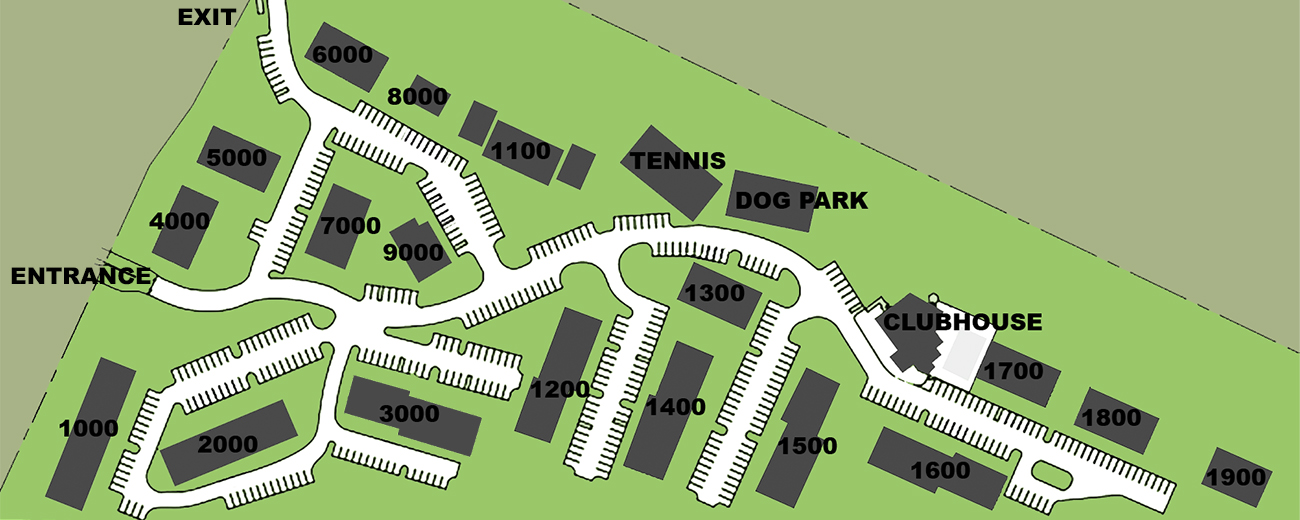
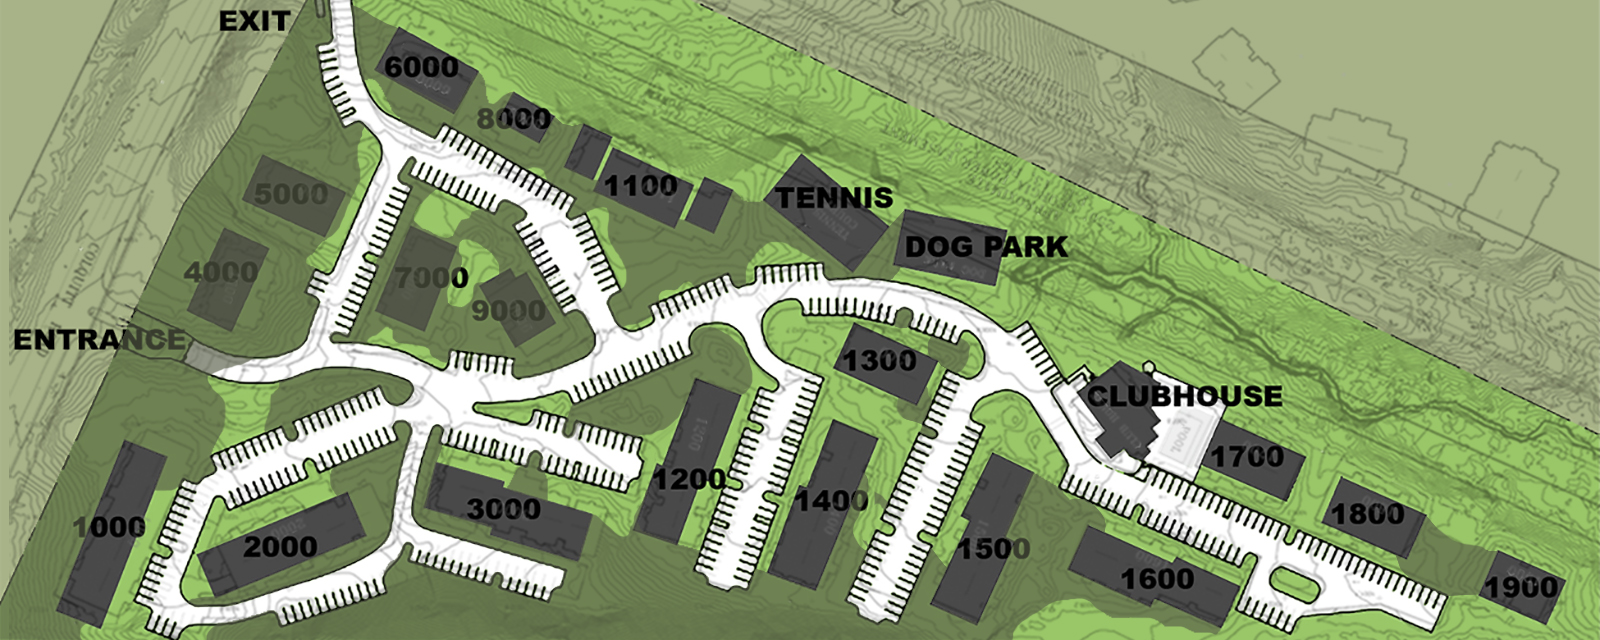
Added Show grass and shade functionality

diff --git a/scripts/layout.js b/scripts/layout.js
@@ -1,99 +1,44 @@
-//Sets and resets variables when window is resized and scrolled
-function setVars() {
-    //Window Scroll top location
-     windowTop = $(window).scrollTop();
-
-     //Window width
-     windowWidth = $(window).width();
-
-     //Height of the img header in pixels
-     windowRatio = (windowWidth / 3.25) + 9;
-
-     //Height of the img header plus offset adjustment for spacing discrepancy in the nav bar
-     windowRatioPlus = (windowWidth / 3.25) + 15;
-
-     //Height of the small img header 
-     windowSmallRatio = (windowWidth / 3.25);
-
-     //Location of the top of the nav bar relative to the img header
-     navMargin = windowWidth / 10.5; 
-
-     //Neg value of the above
-     negMargin = navMargin * -1;
-
-
-     //Img header minus height of the nav bar location
-     numToNeg = ((windowRatio * -1) - navMargin) + 6;
-     numToNegSmall = (windowSmallRatio * -1) - 53;
-     winSmallNeg = ((windowSmallRatio * -1) + navMargin) + 20;
-}
-setVars(); 
-
-function adjustNav() { 
-    if ((windowWidth <= 550) && (windowTop <= windowRatio)) {
-        $('#app').css({"margin-top" : "20px"});
-    }
-}
-
-//The background imagerfader
-function imageSlide() {
-    let slides = [];
-    //Make sure that the IMG SRC height is set to headheight
-    //$('#img-header').css("height" : headHeight);
-    $('.header-container').css({"height" : headHeight});
-    //Grab all the img elements with the id of image-loader
-    slides = $('#image-loader img');
-    //Get the number of elements pulled and save as variable
-    var slideCount = slides.length; 
-    //Create an empty array container
-    var slideSrc = []; 
-    
-} 
-
-function clearBoxes(){
-  const boxes = document.querySelectorAll('.task-point'); 
-    boxes.forEach(box => {
-      box.remove();
-    }); 
-} 
 
 $(document).ready(function(e) { 
 
-    let url = 'https://beautify-stonepark-f8af732df93d.herokuapp.com/'
-    let homeUrl = url
-    let newUrl 
+  let url = 'https://beautify-stonepark-f8af732df93d.herokuapp.com/'
+  let homeUrl = url
+  let newUrl 
 
-    let id = 0 
-    let historyId = 0
-    let historyArr = []
-    let projectArr = []  
+  let id = 0 
+  let historyId = 0
+  let historyArr = []
+  let projectArr = []  
 
-    let taskPoint = []
-    let percentWidth
-    let percentHeight
-    let screenLocked = false   
+  let taskPoint = []
+  let percentWidth
+  let percentHeight
+  let screenLocked = false   
 
-    const today = new Date();
-    let yyyy = today.getFullYear();
-    let mm = today.getMonth() + 1; // Months start at 0!
-    let dd = today.getDate();
+  let grassChecked = false
+  let shadeChecked = false
 
-    if (dd < 10) dd = '0' + dd;
-    if (mm < 10) mm = '0' + mm;
+  const today = new Date();
+  let yyyy = today.getFullYear();
+  let mm = today.getMonth() + 1; // Months start at 0!
+  let dd = today.getDate();
 
-    let formattedToday = dd + '/' + mm + '/' + yyyy; 
-    let time = today.toLocaleString('en-US', {hour: 'numeric', minute: 'numeric', hour12: true})
+  if (dd < 10) dd = '0' + dd;
+  if (mm < 10) mm = '0' + mm;
 
+  let formattedToday = dd + '/' + mm + '/' + yyyy; 
+  let time = today.toLocaleString('en-US', {hour: 'numeric', minute: 'numeric', hour12: true}) 
 
-    setInterval(()=>{
-      $.getJSON(url + "json", (result)=>{   
-        console.log("++++++++++++++++++++")
-        console.log(formattedToday + " Time: " + time )
-        console.log(result) 
-      })  
-    }, 3600000) 
-    //Sept 7, 2023 : post
-    
+  //printing out json
+  setInterval(()=>{
+    $.getJSON(url + "json", (result)=>{   
+      console.log("++++++++++++++++++++")
+      console.log(formattedToday + " Time: " + time )
+      console.log(result) 
+    })  
+  }, 3600000) 
+
+  //Sept 7, 2023 : post 
  
   setTimeout(()=>{
     
@@ -101,9 +46,7 @@ $(document).ready(function(e) {
     let calibrationY = 8
 
     let winWidth = $('#img-header').width()
-    let winHeight = $('#img-header').height() 
-
-    
+    let winHeight = $('#img-header').height()   
 
     if (window.sessionStorage.getItem("pageLoaded") == null){
           window.sessionStorage.setItem("pageLoaded", true)
@@ -199,23 +142,64 @@ $(document).ready(function(e) {
 
     })
 
-    $(document).on('click', 'button#cancel', ()=>{
-      alert
+    $(document).on('click', 'button#cancel', ()=>{ 
 
-      let thisEl = id+1
-      let thisStr = thisEl.toString()
-      
-      $('#overlaycontainer2').css('width', '500px')
-      $('#overlay-form').empty()
-      $('#overlaycontainer2').css('visibility', 'hidden' ); 
-      
-      $('#overlaycontainer').css('width', '85%')
-      $('#overlay-app').empty()
-      $('#overlaycontainer').css('visibility', 'hidden' );
-      document.getElementById(thisStr).remove()
-      screenLocked = false
-      window.location.replace(url + '#/');  
+        let thisEl = id+1
+        let thisStr = thisEl.toString()
+        
+        $('#overlaycontainer2').css('width', '500px')
+        $('#overlay-form').empty()
+        $('#overlaycontainer2').css('visibility', 'hidden' ); 
+        
+        $('#overlaycontainer').css('width', '85%')
+        $('#overlay-app').empty()
+        $('#overlaycontainer').css('visibility', 'hidden' );
+        document.getElementById(thisStr).remove()
+        screenLocked = false
+        window.location.replace(url + '#/');  
+
     }) 
+
+    $(document).on('click', '#grass', (e)=>{
+
+        grassChecked = !grassChecked
+        $('#grass').prop('checked', grassChecked)
+        
+        if(grassChecked == true && shadeChecked == false){
+          
+          $('#img-header').attr('src', 'images/Leeches-Header-3-Large.jpg') 
+        }
+        else if(grassChecked == true && shadeChecked == true){
+          $('#img-header').attr('src', 'images/Leeches-Header-4-Large.jpg') 
+        } 
+        else if(grassChecked == false && shadeChecked == true){
+          $('#img-header').attr('src', 'images/Leeches-Header-2-Large.jpg')  
+        }
+        else{
+          $('#img-header').attr('src', 'images/Leeches-Header-5-Large.jpg')  
+        }
+
+    })
+
+    $(document).on('click', '#shade', (e)=>{
+
+      shadeChecked = !shadeChecked
+      $('#shade').prop('checked', shadeChecked)
+      
+      if(grassChecked == true && shadeChecked == false){ 
+        $('#img-header').attr('src', 'images/Leeches-Header-3-Large.jpg') 
+      }
+      else if(grassChecked == true && shadeChecked == true){
+        $('#img-header').attr('src', 'images/Leeches-Header-4-Large.jpg') 
+      } 
+      else if(grassChecked == false && shadeChecked == true){
+        $('#img-header').attr('src', 'images/Leeches-Header-2-Large.jpg')  
+      }
+      else{
+        $('#img-header').attr('src', 'images/Leeches-Header-5-Large.jpg')  
+      }
+
+  })
 
     $('#team').on('click', (e)=>{
 
@@ -310,6 +294,65 @@ $(document).ready(function(e) {
   }, 1000)
   
 });
+
+//Sets and resets variables when window is resized and scrolled
+function setVars() {
+  //Window Scroll top location
+   windowTop = $(window).scrollTop();
+
+   //Window width
+   windowWidth = $(window).width();
+
+   //Height of the img header in pixels
+   windowRatio = (windowWidth / 3.25) + 9;
+
+   //Height of the img header plus offset adjustment for spacing discrepancy in the nav bar
+   windowRatioPlus = (windowWidth / 3.25) + 15;
+
+   //Height of the small img header 
+   windowSmallRatio = (windowWidth / 3.25);
+
+   //Location of the top of the nav bar relative to the img header
+   navMargin = windowWidth / 10.5; 
+
+   //Neg value of the above
+   negMargin = navMargin * -1;
+
+
+   //Img header minus height of the nav bar location
+   numToNeg = ((windowRatio * -1) - navMargin) + 6;
+   numToNegSmall = (windowSmallRatio * -1) - 53;
+   winSmallNeg = ((windowSmallRatio * -1) + navMargin) + 20;
+}
+setVars(); 
+
+function adjustNav() { 
+  if ((windowWidth <= 550) && (windowTop <= windowRatio)) {
+      $('#app').css({"margin-top" : "20px"});
+  }
+}
+
+//The background imagerfader
+function imageSlide() {
+  let slides = [];
+  //Make sure that the IMG SRC height is set to headheight
+  //$('#img-header').css("height" : headHeight);
+  $('.header-container').css({"height" : headHeight});
+  //Grab all the img elements with the id of image-loader
+  slides = $('#image-loader img');
+  //Get the number of elements pulled and save as variable
+  var slideCount = slides.length; 
+  //Create an empty array container
+  var slideSrc = []; 
+  
+} 
+
+function clearBoxes(){
+const boxes = document.querySelectorAll('.task-point'); 
+  boxes.forEach(box => {
+    box.remove();
+  }); 
+} 
 
  
  

diff --git a/home.html b/home.html
@@ -58,6 +58,16 @@
             <div class="legend-list">
                 <div class="task-design"></div><h3>Design</h3>
             </div>
+            <div class="legend-list">
+                <div class="grass-layer">
+                    <input type="radio" id="grass" class="contact-radio-text" name="grass" value="grass"></input><h3>Show Grass</h3>
+                </div>
+            </div>
+            <div class="legend-list">
+                <div class="shade-layer">
+                    <input type="radio" id="shade" class="contact-radio-text" name="shade" value="shade"></input><h3>Show Shade</h3>
+                </div>
+            </div>
         </section> 
         <!-- Container for all the content resides -->
         <div id="app"> 

diff --git a/styles/main.css b/styles/main.css
@@ -656,8 +656,7 @@ p.contact-input-label {
 }
 
 #legend-container h3 {  
-    margin-left : 10px; 
-
+    margin-left : 10px;  
 }
 
 .legend-list h3 {
@@ -665,6 +664,17 @@ p.contact-input-label {
     line-height: 10px;
 }
 
+.legend-list input {
+    margin-left: 1px;
+}
+
+.grass-layer h3 {
+    margin-top : -15px;
+}
+
+.shade-layer h3 {
+    margin-top : -15px;
+}
 /***** INDEX *****/
 .index-container {
     margin: 0 auto; 
